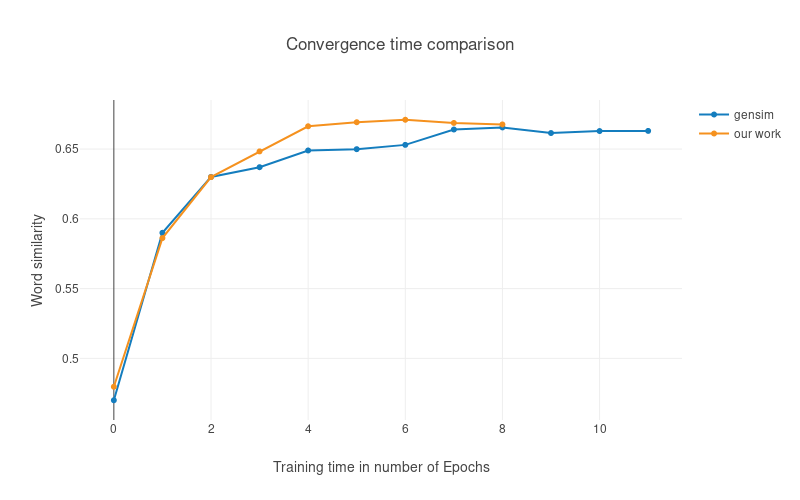
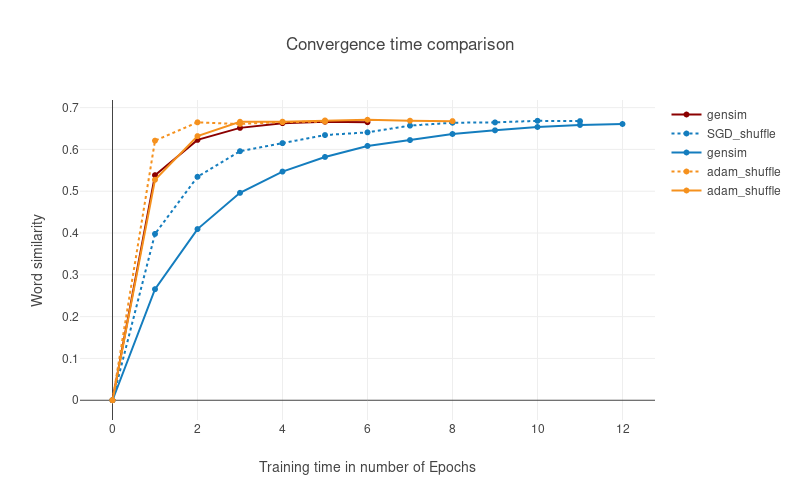
fixed jupyter notebook issue

diff --git a/presentation/slides/background.tex b/presentation/slides/background.tex
@@ -91,11 +91,13 @@ p(v_{he}| v_{is})
 
 \end{frame}
 \fi
-\begin{frame}\frametitle{Background}\framesubtitle{Softmax}
-\centerline{
-\includegraphics[scale=0.5]{images/skip_gram_example.pdf}}
-\end{frame}
-\begin{frame}\frametitle{Background}\framesubtitle{Negative Sampling}
+
+\begin{frame}\frametitle{Background}
+   \begin{flalign}
+\text{Softmax: } &&  p(c|w) =  \frac{exp( {v^{'}_c}^\intercal v_w )}{\sum_{i=1}^T exp({v^{'}_i}^\intercal v_{w})}
+   \end{flalign}
+  \hfill   $v^{'} $is the output layer vector
+  $v$ is the input layer vector
 \begin{large}
 Negative Sampling
 \end{large}
@@ -105,7 +107,36 @@ Negative Sampling
 \item For each pair $(w,c)$ we get:
 \medskip
 \end{itemize}
-  \begin{equation}
- \argmax_{\theta }\ log(\sigma({v^{'}_c}^\intercal v_w ) + \sum_{k\in K} \sigma(log(-{v^{'}_k}^\intercal  v_w ))  
-  \end{equation}
+  \begin{flalign}
+ && \argmax_{\theta }\ log(\sigma({v^{'}_c}^\intercal v_w ) + \sum_{k\in K} log(\sigma(-{v^{'}_k}^\intercal  v_w ))  
+  \end{flalign}
+  \begin{itemize}
+  \item Uses SGD as an optimizer
+  \end{itemize}
+\end{frame}
+
+\begin{frame}
+\frametitle{Background}
+\begin{Large}
+State of the Art
+\end{Large}
+\begin{itemize}
+\item word2vec (Mikolov et al. 2013)  \cite{mikolov}
+\item Parallelizing Word2Vec in Shared and Distributed Memory (Ji et al. 2016)\cite{intel}
+\item Acceleration of Word2vec Using GPUs (Seulki and Youngmin  2016) \cite{gpu}
+\item Gensim ({\v R}eh{\r u}{\v r}ek and Sojka) \cite{gensim}
+\end{itemize}
+\begin{Large}
+Research Questions:
+\end{Large}
+\medskip \\
+ Can the convergence time of the skip Gram Model be optimized by the use of:
+\begin{itemize}
+\item Advanced optimizers
+\end{itemize}
+and
+\begin{itemize}
+\item Input Shuffling
+\end{itemize}
+while at the same time maintaining it's accuracy? 
 \end{frame}

diff --git a/presentation/slides/backup.tex b/presentation/slides/backup.tex
@@ -10,3 +10,51 @@ It's unsuitable to compute the softmax
 \item For each pair we have to go over the whole training corpus. (Billions of word in practice) 
    \end{itemize}
 \end{frame}
+
+
+\begin{frame}
+\frametitle{Network Architecture} 
+\begin{columns}
+    \column{0.6\textwidth}
+\begin{itemize}
+\item Dimension of input and output vectors = 100
+\item Context window  = 5
+\end{itemize}
+    \column{0.6\textwidth}
+    \begin{itemize}
+    \item Negative Samples = 10 
+\item Coded in Pytorch 1.0
+\end{itemize}
+  \end{columns}
+  \bigskip
+\begin{columns}
+    \column{0.4\textwidth}
+    		First 10 pairs of training:
+        \includegraphics[scale=0.35]{images/pairs_example}    \column{0.6\textwidth}
+        Negative Samples:\\
+        \includegraphics[scale=0.35]{images/neg_samples_example}
+  \end{columns}
+\end{frame}
+
+\begin{frame}
+Each parameter $\theta_i$, at time step $t$ will have it's own learning rate $\eta_{t,i}$
+ \begin{equation}
+\eta_{t,i} = \frac{\eta_0}{\sqrt{\sum^{t}_{i=1} g^{2}_{t,i}} \epsilon}
+\end{equation}
+where
+\begin{itemize}
+\item $g_{t,i} = \nabla J(\theta_{t,i})$  is the partial derivative of the loss function with respect to the parameter $\theta_i$ at time step $t$. 
+\item each parameter $\theta_{i}$ has it's one learning rate
+\item  $ \theta_{t+1,i} = \theta_{t_i} - \eta_{t,i} g_{t,i} $
+\end{itemize}
+We can now construct our global parameter update as follows: 
+\begin{equation}
+\theta_{t+1,i} = \theta_{t_i}- \frac{\eta}{\sqrt{G_{t_{i,i}}} + \epsilon} g_{t,i}, 
+\end{equation} 
+with  $G_{t_{i,i}}$ being the diagonal Matrix of the sum of the squares of the graditents ($g_{t,i} $).
+\end{frame}
+
+\begin{frame}\frametitle{Background}\framesubtitle{Softmax}
+\centerline{
+\includegraphics[scale=0.5]{images/skip_gram_example.pdf}}
+\end{frame}

diff --git a/presentation/slides/discussion.tex b/presentation/slides/discussion.tex
@@ -1,40 +1,16 @@
 \begin{frame}
 \frametitle{Discussion}
-Comparison to related work
-\begin{itemize}
-\item Convergence Time
-\item Word similarity
-\end{itemize}
-\end{frame}
-\begin{frame}
-\frametitle{Discussion}
-\begin{itemize}
-
-\item Word Similarity vs. Related Work
-\begin{table}[]
-\begin{tabular}{|l|l|}
-\hline
-model         & Word Similarity \\ \hline
-Gensim           & \textbf{ 0.66   }        \\ \hline
-w2vec (original) & 0.63           \\ \hline
-our Work         & \textbf{0.66}       \\ \hline
-\end{tabular}
-\end{table}
-\end{itemize}
-\hfill (Ji et al. 2016) \cite{intel}
-% \includegraphics[scale=0.5]{images/wordsim353_text8}
-\end{frame}
-
-\begin{frame}
-\frametitle{Discussion}
 Convergence time vs Gensim 
     \begin{table}[]
 \begin{tabular}{|l|l|l|}
 \hline
 Model    & Convergence Time & Word Similarity \\ \hline
-our work & \textbf{5}              & 0.66            \\ \hline
-Gensim   & 7           & 0.66            \\ \hline
+SGD & {11}              & 0.65            \\ \hline
+SGD w/shuffling & {7}              & 0.66            \\ \hline
+Adam & {3}              & 0.66            \\ \hline
+Adam w/ shuffling & \textbf{2}              & 0.66      \\ \hline
+Gensim   & 4          & 0.66            \\ \hline
 \end{tabular}
 \end{table}
-\includegraphics[scale=0.3]{images/gensim_vs_adam}
+\includegraphics[scale=0.25]{images/gensim_vs_adam}
   \end{frame}

diff --git a/presentation/slides/implementation.tex b/presentation/slides/implementation.tex
@@ -24,42 +24,12 @@ Implementation
 \fi
 \begin{frame}
 \frametitle{Dataset} 
-\begin{columns}
-    \column{0.7\textwidth}
     \begin{itemize}
 \item Text8 dataset
 \item First 30MB of clean text from wikipedia 
-\item 1702 documents of 10k words  
 \item Vocabulary $\approx$ 250k word (small) 
 \item Subsampling $\implies$ 50\% decrease of data set size
 \end{itemize}
-    \column{0.3\textwidth}
-        \includegraphics[scale=0.35]{images/text8snippet}
-  \end{columns}
-\end{frame}
-
-\begin{frame}
-\frametitle{Network Architecture} 
-\begin{columns}
-    \column{0.6\textwidth}
-\begin{itemize}
-\item Dimension of input and output vectors = 100
-\item Context window  = 5
-\end{itemize}
-    \column{0.6\textwidth}
-    \begin{itemize}
-    \item Negative Samples = 10 
-\item Coded in Pytorch 1.0
-\end{itemize}
-  \end{columns}
-  \bigskip
-\begin{columns}
-    \column{0.4\textwidth}
-    		First 10 pairs of training:
-        \includegraphics[scale=0.35]{images/pairs_example}    \column{0.6\textwidth}
-        Negative Samples:\\
-        \includegraphics[scale=0.35]{images/neg_samples_example}
-  \end{columns}
 \end{frame}
 
 \begin{frame}
@@ -71,7 +41,6 @@ Optimization techniques:
 \item Momentum
 \item Nesterov accellerated Momentum 
 \item Adagrad 
-\item Adadelta
 \item Adam
 \end{itemize}
 \item Input Shuffling

diff --git a/presentation/slides/results.tex b/presentation/slides/results.tex
@@ -35,10 +35,29 @@ What is word similarity?
 \centerline{ \includegraphics[scale=0.4]{images/cosine}}
 \end{frame}
 \begin{frame}
+\frametitle{Word Similarity}
+\begin{itemize}
+
+\item Word Similarity vs. Related Work
+\begin{table}[]
+\begin{tabular}{|l|l|}
+\hline
+model         & Word Similarity \\ \hline
+Gensim           & \textbf{ 0.66   }        \\ \hline
+w2vec (original) & 0.63           \\ \hline
+our Work         & \textbf{0.66}       \\ \hline
+\end{tabular}
+\end{table}
+\end{itemize}
+\hfill (Ji et al. 2016) \cite{intel}
+% \includegraphics[scale=0.5]{images/wordsim353_text8}
+\end{frame}
+
+\begin{frame}
 \frametitle{Convergence time}
 \begin{itemize}
 \item Defined convergence time based on word similarity
-\item Early Stoppage if: $ \rho -  \rho_{prev} < 0.009$ 
+\item Early Stoppage if: $ \rho -  \rho_{prev} < 0.009 \vee \rho > 0.66$ 
 \item No more than 20 epochs. 
 \end{itemize}
 \includegraphics[scale=0.3]{images/wordsim_convergence}

diff --git a/presentation/slides/motivation.tex b/presentation/slides/motivation.tex
@@ -1,5 +1,22 @@
-
-\section{Motivation}
+ \begin{frame}
+ \frametitle{Overview} 
+ \begin{Large}
+Overview of my thesis
+ \end{Large}
+ \bigskip
+ \begin{itemize}
+ \item Word embeddings are vector representations of words
+ \item Word embeddings are a powerful tool that facilitate NLP
+ \item Skip Gram Model with negative sampling, is a simple and powerful algorithm (Mikolov et al.) \cite{mikolov}
+ \item This work focused on optimizing the convergence time
+ \item Techniques used: 
+ \begin{itemize}
+ \item Advanced optimizers
+ \item Input shuffling
+ \end{itemize}
+ \end{itemize}
+ \end{frame}
+\iffalse
 \begin{frame}\frametitle{Motivation}
 \textbf{How can we encode vectors for machine learning? }\\
 \bigskip 
@@ -51,3 +68,5 @@ $}
  \item Speeds up and improves other NLP tasks, for example machine translation. 
  \end{itemize}
   \end{frame}
+  \fi
+

diff --git a/presentation/slides/bib.tex b/presentation/slides/bib.tex
@@ -11,6 +11,12 @@
 
 \bibitem{intel} {\sc Ji, Shihao and Satish, Nadathur and Li, Sheng and Dubey, Pradeep}, 2016, {\em Parallelizing word2vec in shared and distributed memory}
 
+\bibitem{gpu} {\sc Bae, Seulki
+and Yi, Youngmin}, 2016, {\em Acceleration of Word2vec Using GPUs}
+
+\bibitem{gensim} {\sc Radim {\v R}eh{\r u}{\v r}ek and Petr Sojka}, 2010, {\em Software Framework for Topic Modelling with Large Corpora}
+
+
 
 
 \end{thebibliography}
